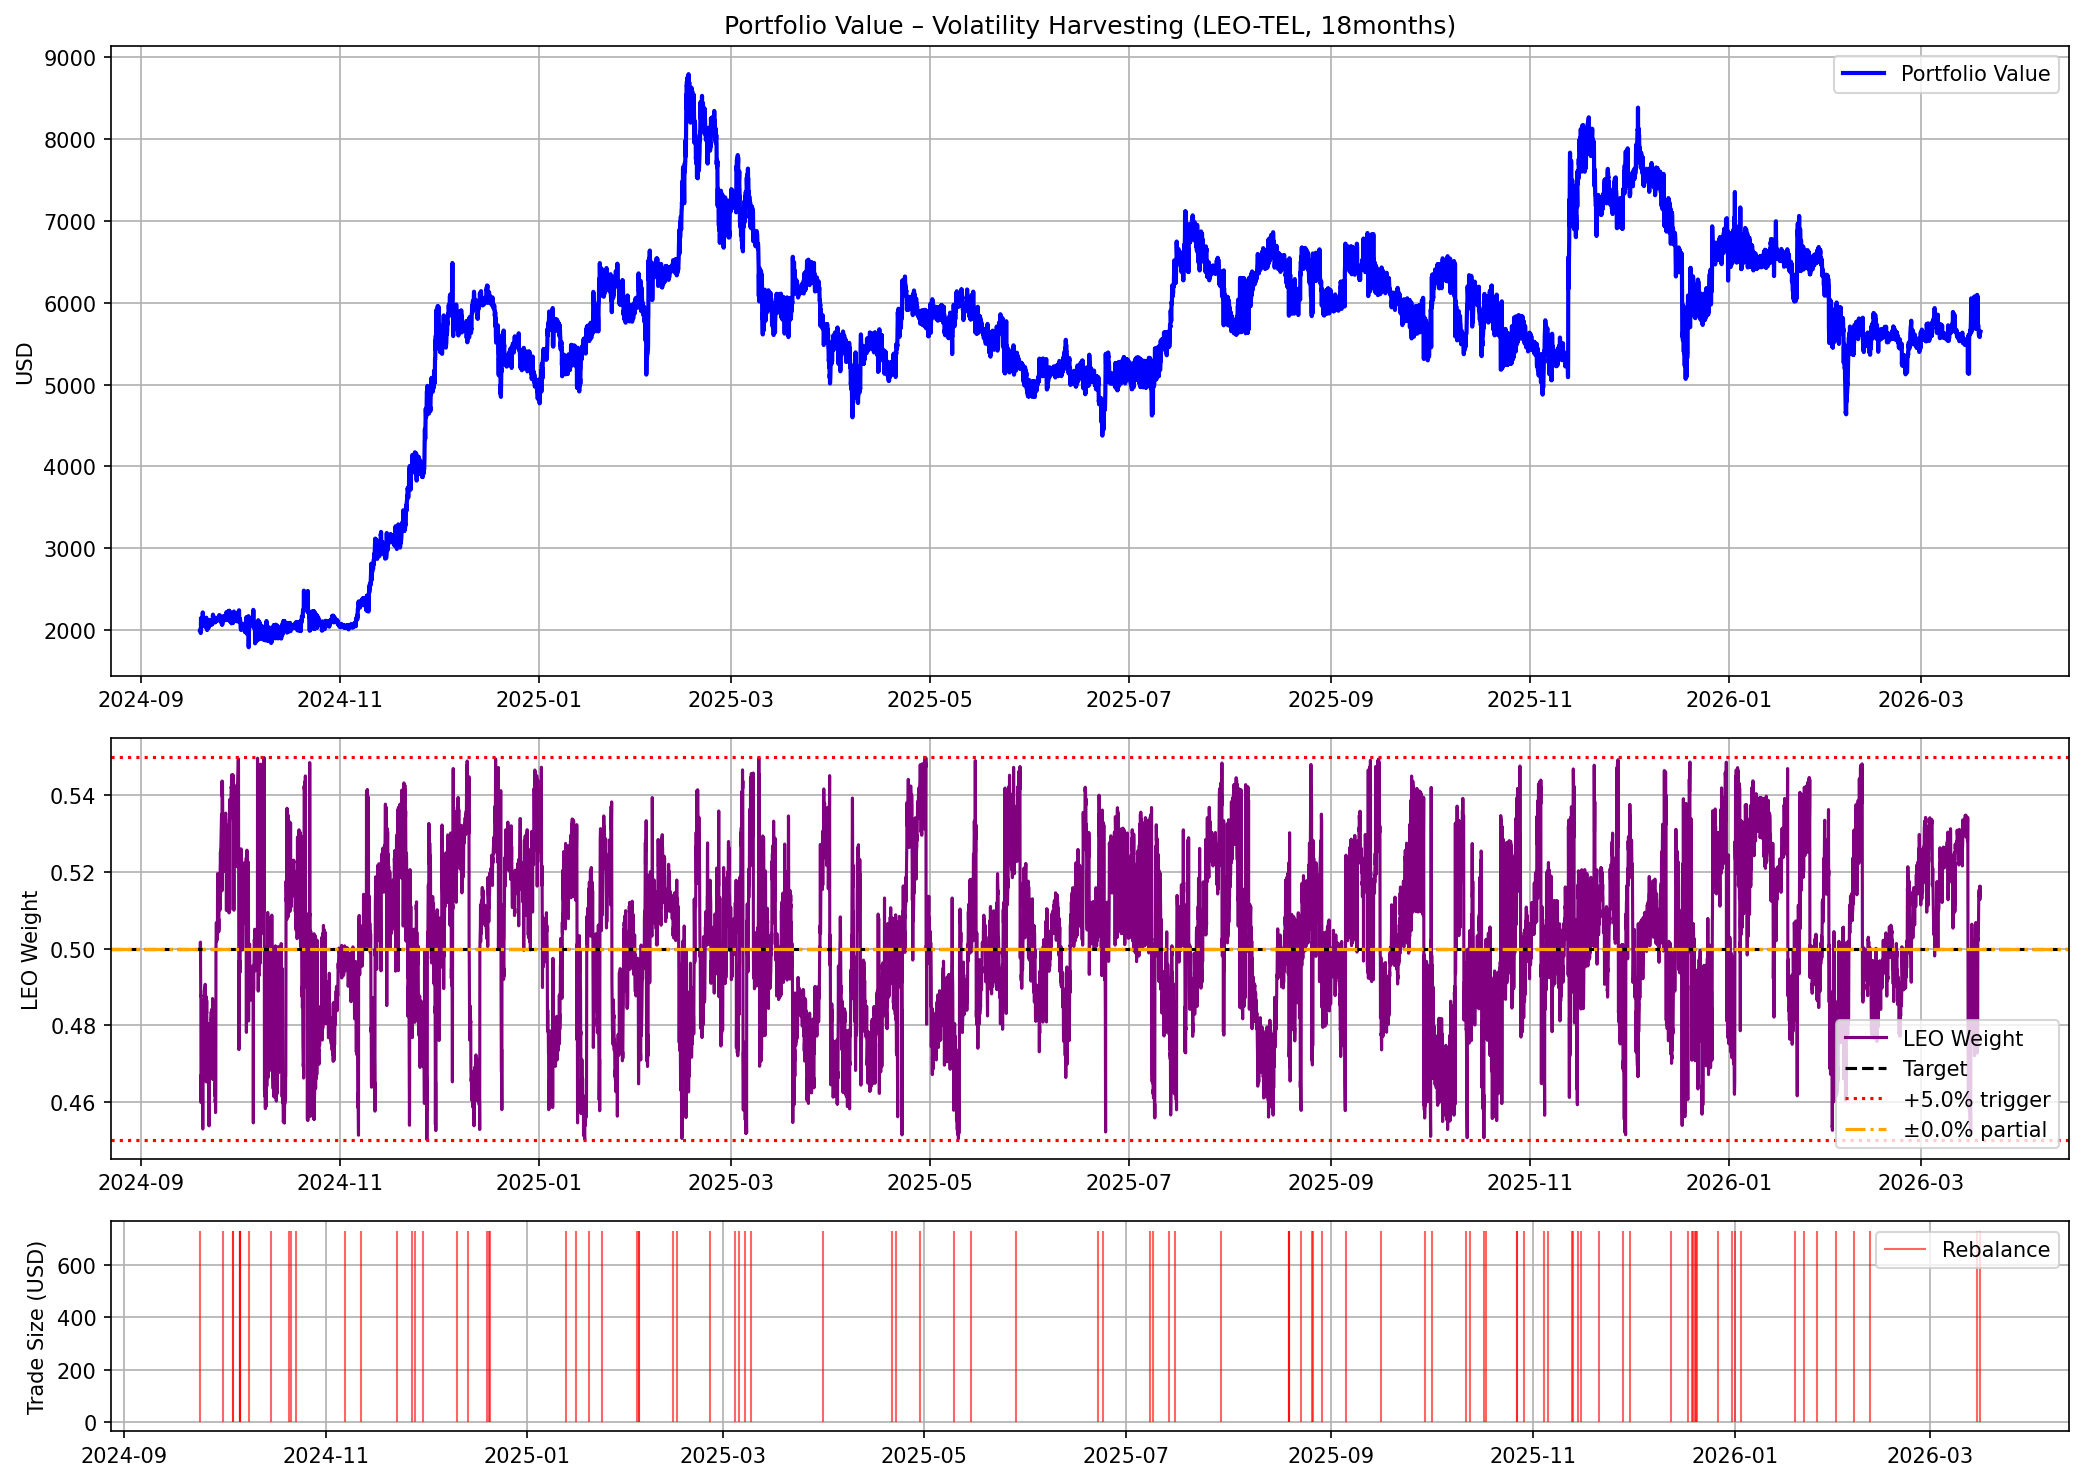
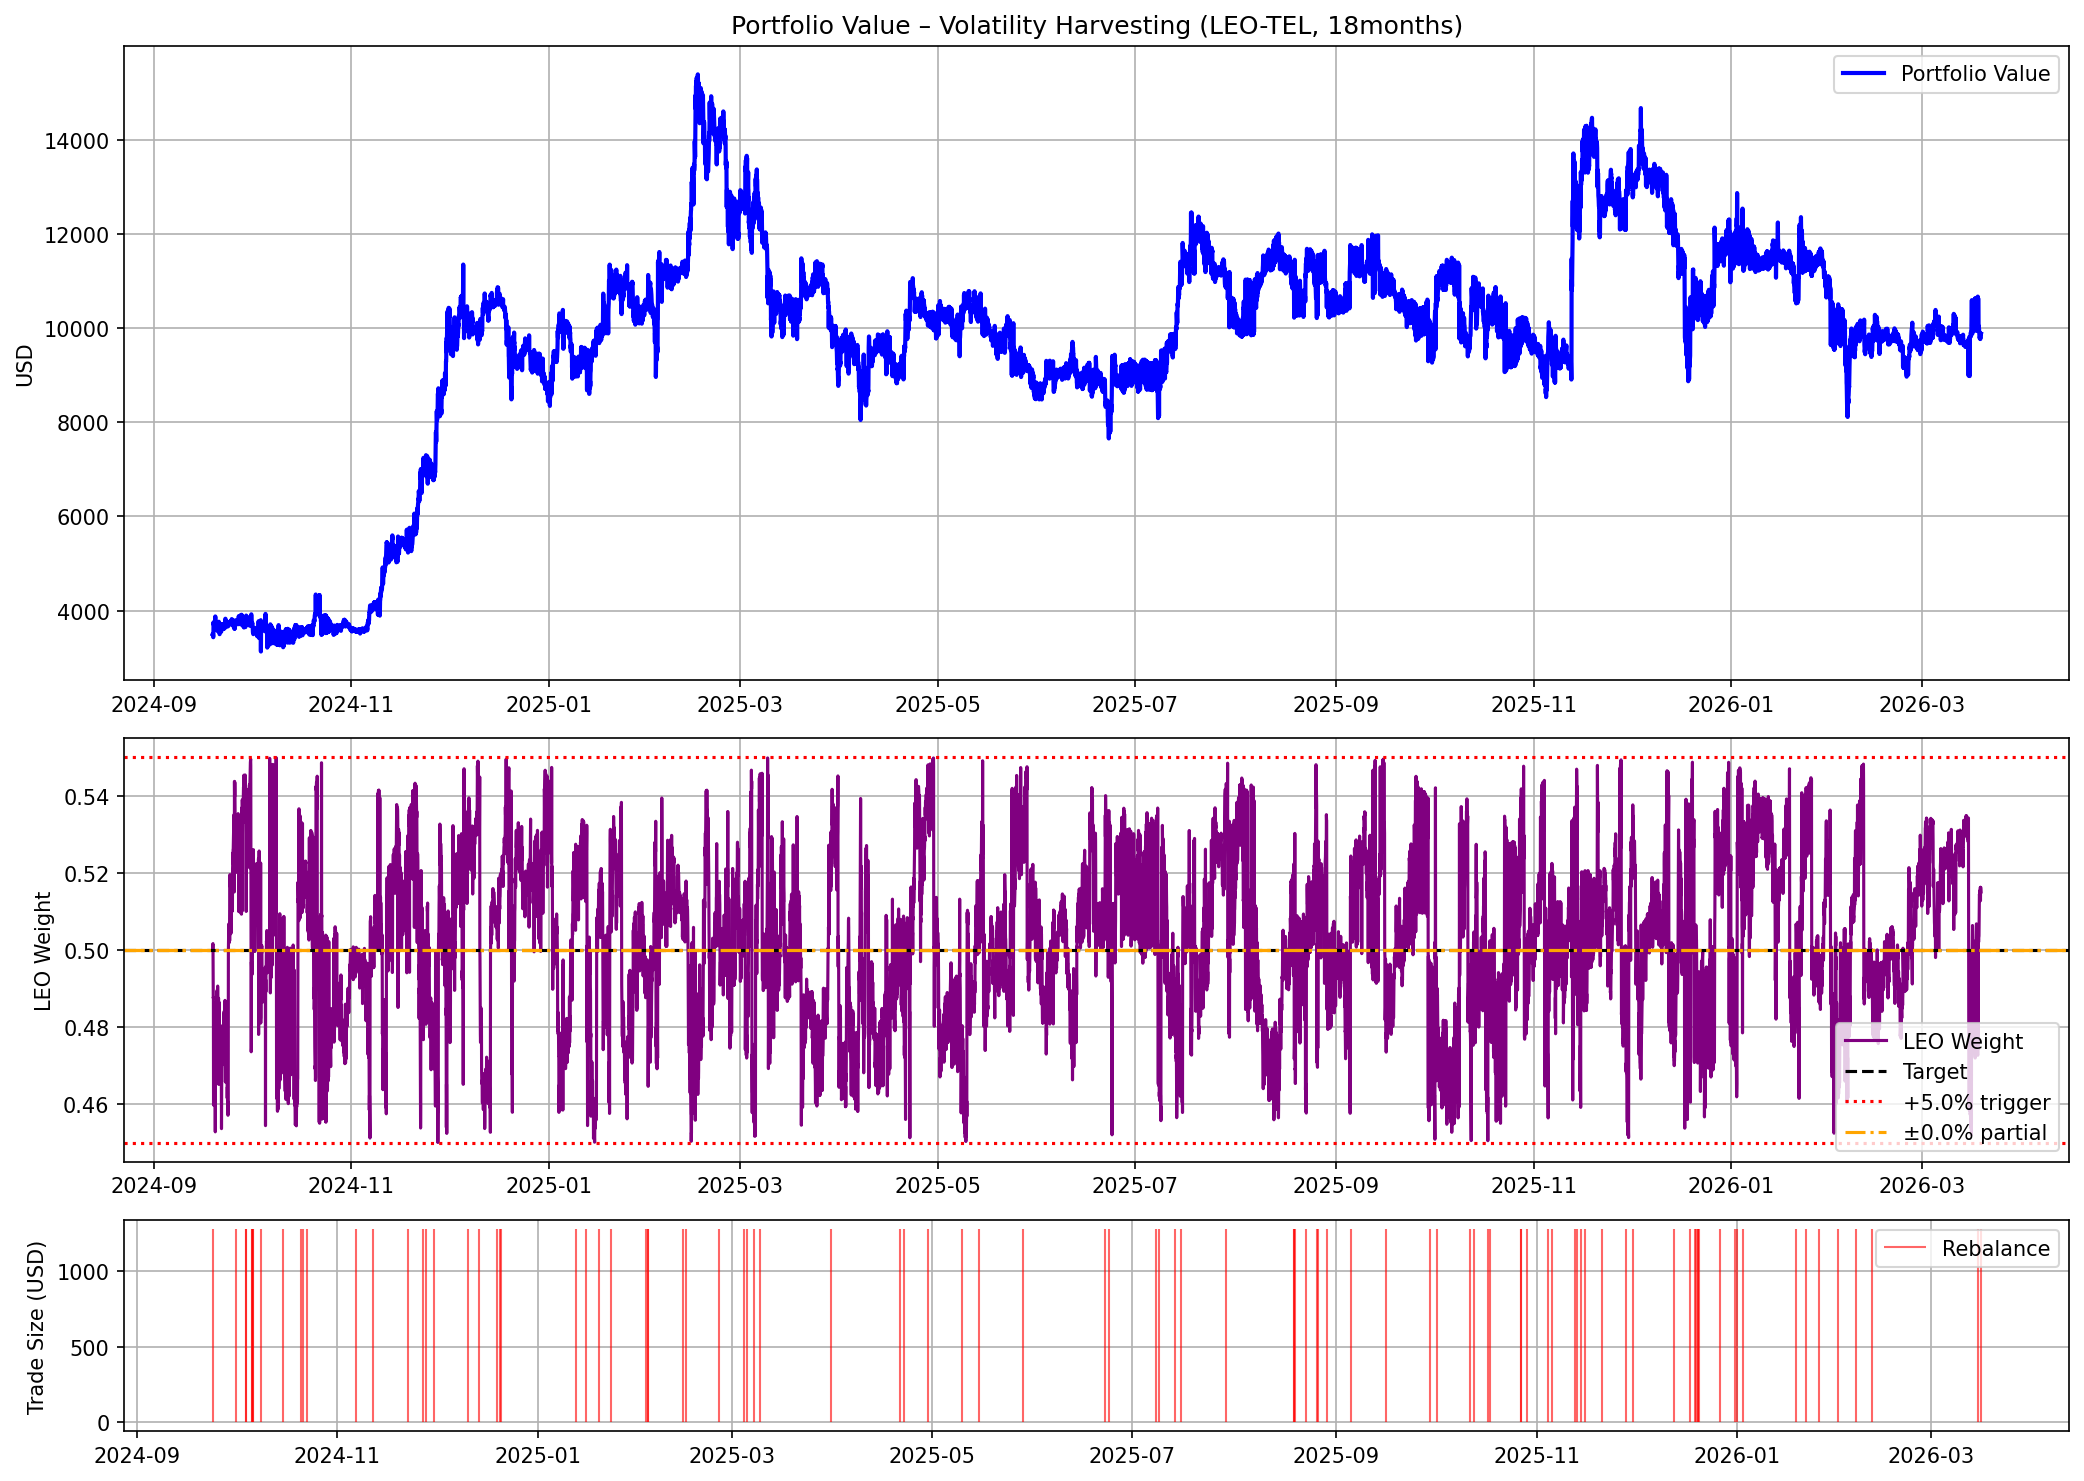
save

diff --git a/src/pcv2/backtester.py b/src/pcv2/backtester.py
@@ -12,7 +12,7 @@ CONFIG = {
     'target_weight_a': 0.50,
     'outer_buffer': 0.05,
     'inner_rebalance_dev': 0.0,
-    'initial_capital': 2000.0,
+    'initial_capital': 3500.0,
     'fee_rate': 0.01,
     'backtest_months': 18,          # set to 0 or negative for FULL dataset
     'csv_path': 'top300_hourly_18months_combined.csv',
